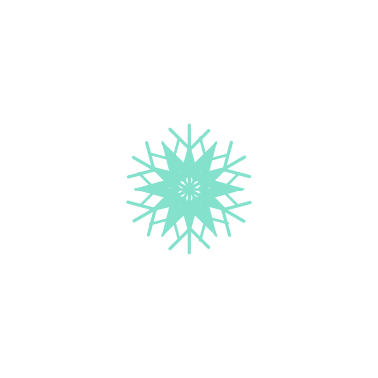
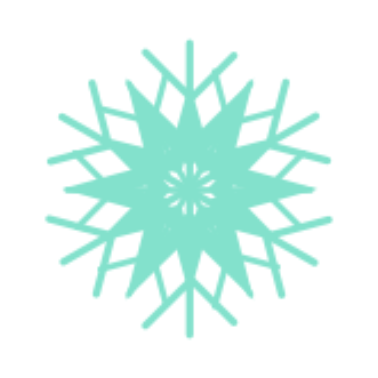
More Immages Addes

Changed region(s): [[0.1164, 0.0873, 0.873, 0.9021]]

diff --git a/index.html b/index.html
@@ -30,12 +30,24 @@
                 <h1 class="topic-card-text">Greenscreen Creation</h1>
             </div>
             <div class="topic-card">
-                <img src="images/placeholder-1024x1024.png" alt="change this too!">
-                <h2 class="topic-card-text">Placeholder image</h2>
+                <img src="images/MyGuy.png" alt="MyGuy">
+                <h2 class="topic-card-text">Character Creation</h2>
             </div>
             <div class="topic-card">
-                <img src="images/placeholder-1024x1024.png" alt="change this too!">
-                <h2 class="topic-card-text">Placeholder image</h2>
+                <img src="images/Backround.png" alt="Backround">
+                <h2 class="topic-card-text">Backround Creation</h2>
+            </div>
+            <div class="topic-card">
+                <img src="images/Snowflake.png" alt="Snowflake">
+                <h1 class="topic-card-text">Snowflake Creation</h1>
+            </div>
+            <div class="topic-card">
+                <img src="images/Pixleart.png" alt="Pixleart">
+                <h2 class="topic-card-text">Pixleart Creation</h2>
+            </div>
+            <div class="topic-card">
+                <img src="images/Pixleart.png" alt="Pixleart">
+                <h2 class="topic-card-text">Pixleart Creation</h2>
             </div>
         </div>
     </section>
